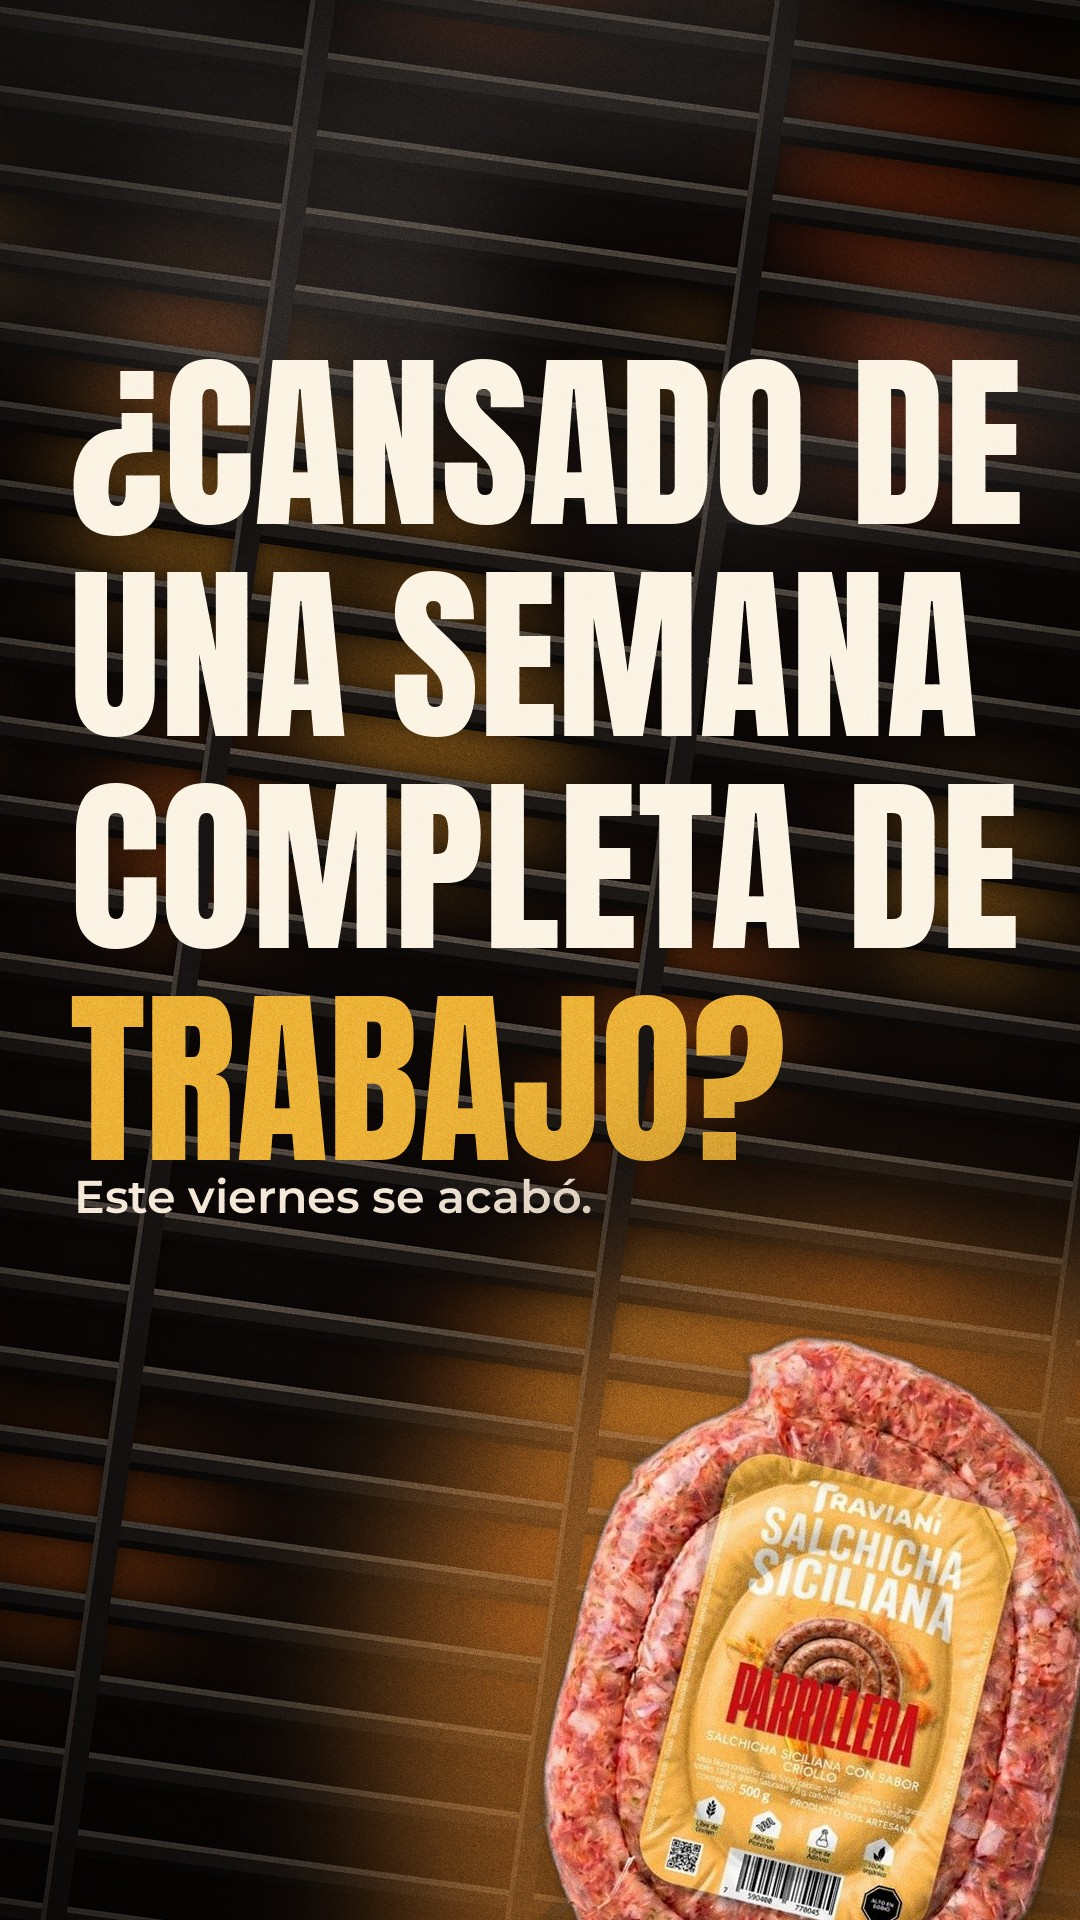
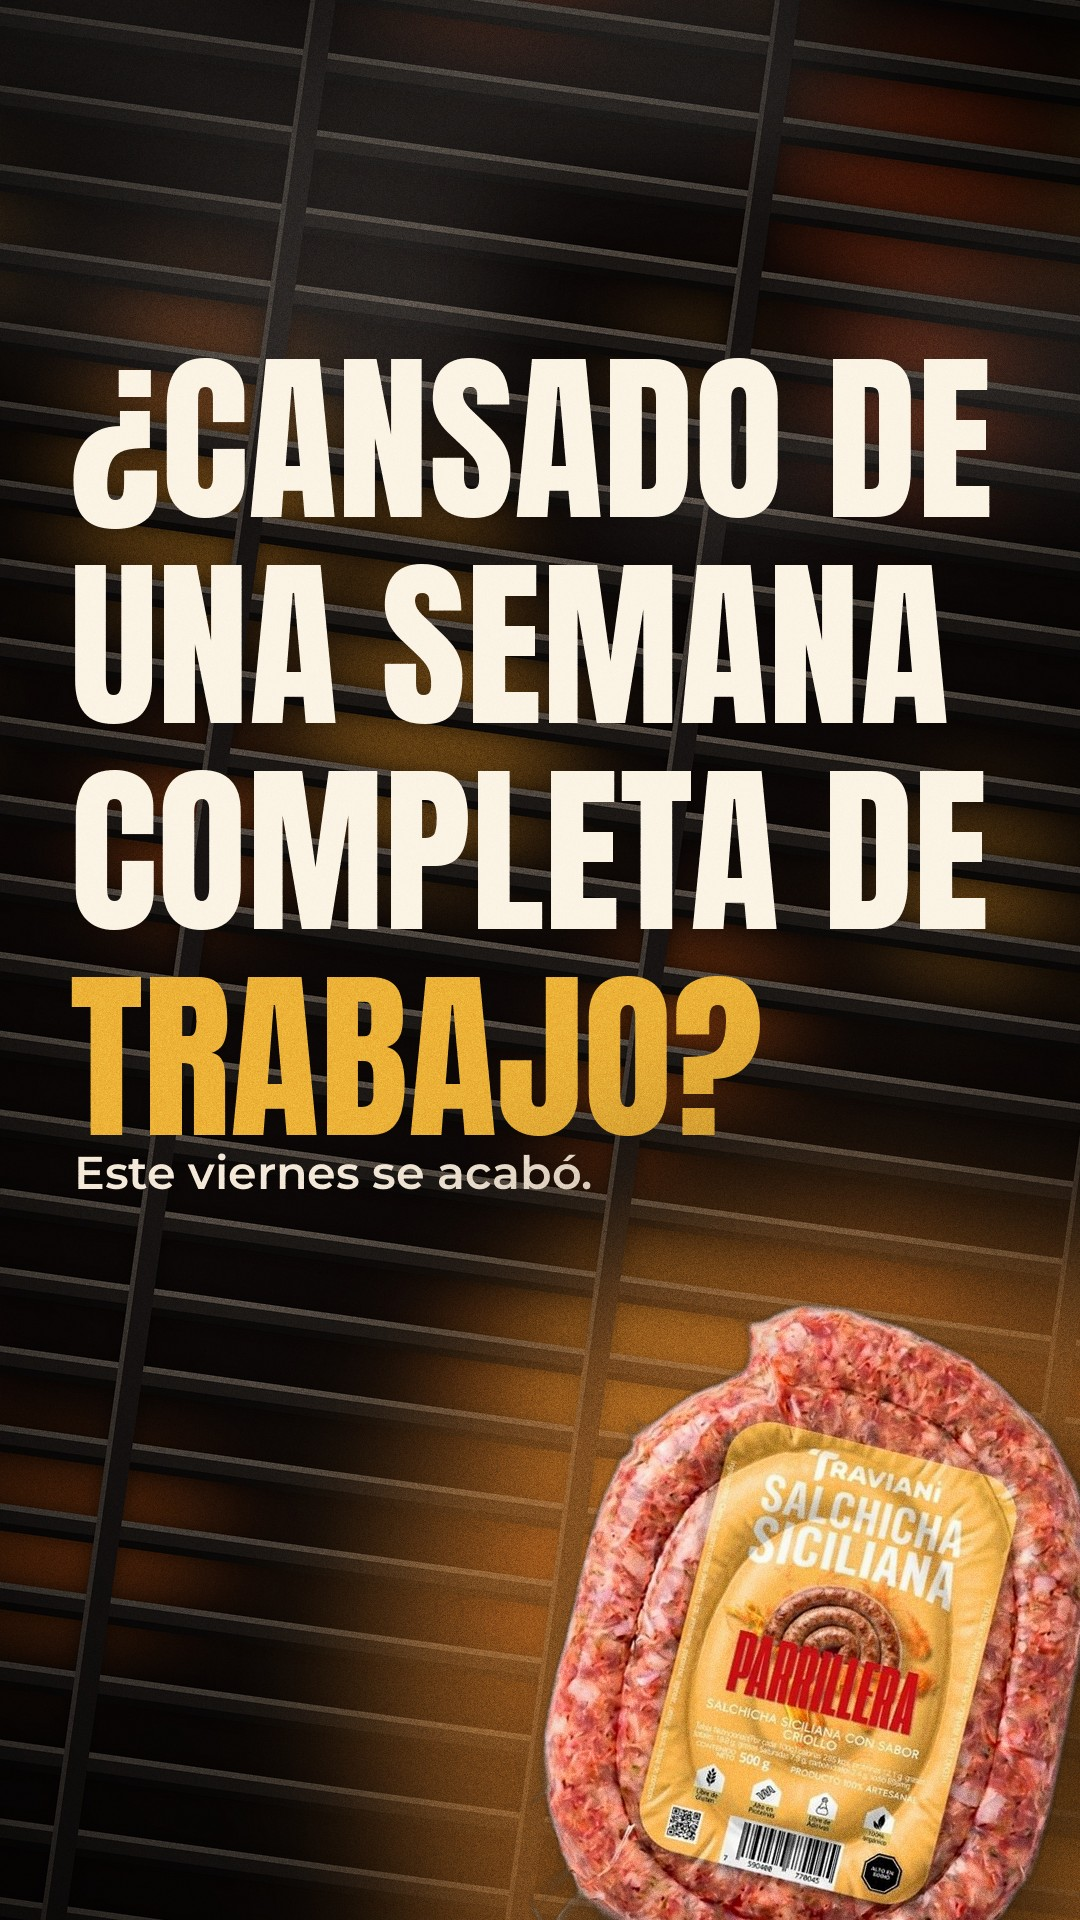
Día 4: domingo de familia con mesa de madera
Claude-Session: https://claude.ai/code/session_01BoapLYkqJjC4bybfaGWR3T

Changed region(s): [[0.0611, 0.1875, 0.9472, 0.6562], [0.4889, 0.6562, 1.0, 1.0]]

diff --git a/disenos.py b/disenos.py
@@ -113,11 +113,12 @@ def espiral_cutout(ancho_px, ang=-6):
 
 
 # ---------- láminas ----------
-def portada_parrilla(l1, l2, etiqueta, sello, total):
+def portada_parrilla(l1, l2, etiqueta, sello, total, fondo="parrilla"):
     """Portada: título gigante sobre parrilla con la espiral como protagonista."""
     T, h, o = g.tt(), H(), oy()
-    b = parrilla_bg(h, ang=-14 if not T else -12)
-    humo(b, h, 0, int(h * 0.3))
+    b = parrilla_bg(h, ang=-14 if not T else -12) if fondo == "parrilla" else mesa_bg(h, 4)
+    if fondo == "parrilla":
+        humo(b, h, 0, int(h * 0.3))
     d = ImageDraw.Draw(b)
     # resplandor bajo la salchicha
     cy_s = int(h * (0.615 if T else 0.71))
@@ -133,6 +134,8 @@ def portada_parrilla(l1, l2, etiqueta, sello, total):
     d = ImageDraw.Draw(b)
     pastilla(d, 0, o + (28 if T else 50), etiqueta, mont(30 if T else 27, "ExtraBold"), DORADO, OSCURO, centrado=True)
     tam = 330 if T else 225
+    while ancho(d, l1, anton(tam)) > W - 90:
+        tam -= 6
     centrar(d, o + (100 if T else 105), l1, anton(tam), CREMA)
     y2 = o + (100 if T else 105) + int(tam * 1.13)
     centrar(d, y2, l2, anton(int(tam * 0.56)), DORADO)
@@ -272,15 +275,18 @@ def lamina_cierre_parrilla(titulo, lineas, boton, total, fotos=(5, 1, 2), precio
     return terminar(b)
 
 
-def lamina_texto_parrilla(lineas, sub, n, total, empaque_n=5, seed=11):
+def lamina_texto_parrilla(lineas, sub, n, total, empaque_n=5, seed=11, fondo="parrilla"):
     """Frase grande sobre la parrilla. lineas = [(texto, color)], con un empaque asomando abajo."""
     T, h, o = g.tt(), H(), oy()
-    b = parrilla_bg(h, ang=-8, seed=seed, calor=0.6)
-    b.alpha_composite(Image.new("RGBA", (W, h), (10, 6, 5, 105)))
-    humo(b, h, 0, int(h * 0.3), seed=4)
+    b = parrilla_bg(h, ang=-8, seed=seed, calor=0.6) if fondo == "parrilla" else mesa_bg(h, seed)
+    b.alpha_composite(Image.new("RGBA", (W, h), (10, 6, 5, 105 if fondo == "parrilla" else 120)))
+    if fondo == "parrilla":
+        humo(b, h, 0, int(h * 0.3), seed=4)
     viñeta(b, h)
     d = ImageDraw.Draw(b)
     tam = 190 if T else 158
+    while max(ancho(d, t, anton(tam)) for t, _ in lineas) > W - 150:
+        tam -= 6
     y = o + (150 if T else 130)
     for txt, col in lineas:
         d.text((70, y), txt, font=anton(tam), fill=col); y += int(tam * 1.12)
@@ -290,14 +296,36 @@ def lamina_texto_parrilla(lineas, sub, n, total, empaque_n=5, seed=11):
         d.text((74, y), l, font=fs, fill=(244, 232, 216)); y += int(fs.size * 1.4)
     alto = 700 if T else 560
     p = empaque(empaque_n, alto, -14)
-    pegar_producto(b, p, (W - p.width + 80, 1290 if T else h - int(alto * 0.78)), brillo=(255, 150, 50))
+    pegar_producto(b, p, (W - p.width + 80, int(y + 50) if T else h - int(alto * 0.78)), brillo=(255, 150, 50))
     d = ImageDraw.Draw(b)
     if not T:
         pie(d, CREMA, n, total)
     return terminar(b)
 
 
+def mesa_bg(h, seed=4):
+    """Mesa de madera con tablones, veta vertical y luz cálida al centro."""
+    import numpy as np
+    rnd = np.random.RandomState(seed)
+    gran = np.array(Image.fromarray((rnd.rand(max(2, h // 30), W // 2) * 255).astype("uint8")).resize((W, h), Image.BICUBIC), dtype=float) / 255
+    fino = np.array(Image.fromarray((rnd.rand(h // 2, W // 3) * 255).astype("uint8")).resize((W, h), Image.BICUBIC), dtype=float) / 255
+    tex = 0.65 * gran + 0.35 * fino
+    oscuro, claro = np.array([62, 36, 20.]), np.array([158, 102, 58.])
+    img = oscuro + (claro - oscuro) * tex[..., None]
+    pw = W // 5 + 1
+    for i in range(5):
+        x0, x1 = i * pw, min(W, i * pw + pw)
+        img[:, x0:x1, :] += rnd.uniform(-22, 22)
+        img[:, x0:x0 + 5, :] *= 0.3
+    yy, xx = np.mgrid[0:h, 0:W]
+    d = np.sqrt(((xx - W / 2) / (W * 0.7)) ** 2 + ((yy - h * 0.5) / (h * 0.6)) ** 2)
+    img *= (1.18 - 0.62 * np.clip(d, 0, 1.2))[..., None]
+    return Image.fromarray(np.clip(img, 0, 255).astype("uint8"), "RGB").convert("RGBA")
+
+
 def _fondo(h, fondo, seed):
+    if fondo == "mesa":
+        return mesa_bg(h, seed)
     if fondo == "parrilla":
         return parrilla_bg(h, ang=10 if seed == 8 else -14, seed=seed, calor=0.55 if seed == 8 else 0.85)
     c, o = g.PALETAS["receta"]
@@ -404,6 +432,83 @@ def lamina_paso_props(titulo, cuerpo, num, n, total, props):
     y += 22
     for l in g._lineas(d, cuerpo, fc, 620):
         d.text((82, y), l, font=fc, fill=(255, 236, 212)); y += int(fc.size * 1.42)
+    if not T:
+        pie(d, CREMA, n, total)
+    return terminar(b)
+
+
+def _mesa_oscura(h, seed=4, alfa=125):
+    b = mesa_bg(h, seed)
+    b.alpha_composite(Image.new("RGBA", (W, h), (12, 7, 5, alfa)))
+    viñeta(b, h)
+    return b
+
+
+def lamina_bandas(titulo, filas, n, total, col=(196, 44, 26)):
+    """Tres bandas de color con una palabra grande y una línea de texto. filas = [(palabra, texto)]."""
+    T, h, o = g.tt(), H(), oy()
+    b = _mesa_oscura(h, 5)
+    d = ImageDraw.Draw(b)
+    ft = anton(118 if T else 100)
+    y = o + (40 if T else 70)
+    for l in titulo.split("\n"):
+        d.text((70, y), l, font=ft, fill=CREMA); y += int(ft.size * 1.1)
+    y += 26
+    alto = 310 if T else 250
+    estilos = [(col, CREMA, (255, 226, 200)), (DORADO, OSCURO, (70, 40, 14)), (CREMA, OSCURO, (90, 60, 40))]
+    for i, (pal, txt) in enumerate(filas):
+        fb, ct, cs = estilos[i % 3]
+        x0 = 50 + (40 if i % 2 else 0)
+        sh = capa(); ImageDraw.Draw(sh).rounded_rectangle((x0, y + 12, W - 50 - (0 if i % 2 else 40), y + alto + 12), 34, fill=(0, 0, 0, 120))
+        b.alpha_composite(sh.filter(ImageFilter.GaussianBlur(14)))
+        ImageDraw.Draw(b).rounded_rectangle((x0, y, W - 50 - (0 if i % 2 else 40), y + alto), 34, fill=fb)
+        d = ImageDraw.Draw(b)
+        fp = anton(112 if T else 96)
+        while ancho(d, pal, fp) > W - x0 - 160:
+            fp = anton(fp.size - 6)
+        d.text((x0 + 44, y + (48 if T else 34)), pal, font=fp, fill=ct)
+        fc = mont(42 if T else 36, "SemiBold")
+        yy = y + (48 if T else 34) + int(fp.size * 1.25)
+        for l in envolver(d, txt, fc, W - x0 - 180):
+            d.text((x0 + 46, yy), l, font=fc, fill=cs); yy += int(fc.size * 1.35)
+        y += alto + 26
+    if not T:
+        pie(d, CREMA, n, total)
+    return terminar(b)
+
+
+def lamina_cantidades(titulo, filas, n, total, sabores=(3, 2, 1, 5)):
+    """Guía visual: tarjetas con personas a la izquierda y los paquetes dibujados a la derecha. filas = [(personas, paquetes)]."""
+    T, h, o = g.tt(), H(), oy()
+    b = _mesa_oscura(h, 6)
+    d = ImageDraw.Draw(b)
+    ft = anton(108 if T else 92)
+    y = o + (30 if T else 60)
+    for l in titulo.split("\n"):
+        d.text((70, y), l, font=ft, fill=CREMA); y += int(ft.size * 1.1)
+    y += 22
+    alto = 330 if T else 272
+    for i, (pers, paq) in enumerate(filas):
+        cl = capa()
+        ImageDraw.Draw(cl).rounded_rectangle((50, y + 12, W - 50, y + alto + 12), 36, fill=(0, 0, 0, 120))
+        b.alpha_composite(cl.filter(ImageFilter.GaussianBlur(14)))
+        ImageDraw.Draw(b).rounded_rectangle((50, y, W - 50, y + alto), 36, fill=CREMA)
+        ImageDraw.Draw(b).rounded_rectangle((50, y, 330, y + alto), 36, fill=(196, 44, 26))
+        ImageDraw.Draw(b).rectangle((290, y, 330, y + alto), fill=(196, 44, 26))
+        d = ImageDraw.Draw(b)
+        centrar(d, y + alto * 0.12, str(pers), anton(170 if T else 140), CREMA, 50, 330)
+        centrar(d, y + alto * 0.12 + (190 if T else 158), "PERSONAS", mont(28, "ExtraBold"), (255, 226, 200), 50, 330)
+        ph = int(alto * 0.80)
+        ps = [empaque(sabores[k % len(sabores)], ph, (-6, 4, -3, 6)[k % 4]) for k in range(paq)]
+        paso = int(ps[0].width * 0.74)
+        x = 360
+        for p in ps:
+            pegar_producto(b, p, (x, int(y + (alto - ph) * 0.35)))
+            x += paso
+        d = ImageDraw.Draw(b)
+        et = f"{paq} PAQUETES"
+        pastilla(d, W - 70 - ancho(d, et, mont(28, "ExtraBold")) - 52, y + alto - 62, et, mont(28, "ExtraBold"), OSCURO, CREMA, pad=26)
+        y += alto + 24
     if not T:
         pie(d, CREMA, n, total)
     return terminar(b)

diff --git a/dia04.py b/dia04.py
@@ -1,0 +1,45 @@
+"""Día 4: El domingo no es domingo sin parrilla. python3 dia04.py"""
+import os
+from PIL import Image
+import generador as g
+import disenos as D
+from contenido import WA
+
+CRE, DOR = g.CREMA, g.DORADO
+
+
+def laminas():
+    total = 5
+    return [
+        lambda: D.portada_parrilla("DOMINGO", "DE FAMILIA", "EL MEJOR PLAN", ["DESDE", "$10", "1/2 KG"], total, fondo="mesa"),
+        lambda: D.lamina_texto_parrilla([("EL DOMINGO", CRE), ("NO ES DOMINGO", CRE), ("SIN ESTO.", DOR)],
+                                        "La parrilla prendida y todos en la mesa.", 2, total, empaque_n=2, fondo="mesa"),
+        lambda: D.lamina_bandas("EL DOMINGO\nPERFECTO LLEVA", [("LA FAMILIA", "Todos en la mesa, sin apuro."),
+                                                              ("LA PARRILLA", "Prendida desde temprano."),
+                                                              ("EL PAN", "Calientito, para armar el sándwich.")], 3, total),
+        lambda: D.lamina_cantidades("¿CUÁNTOS\nPAQUETES PIDO?", [(4, 2), (6, 3), (8, 4)], 4, total),
+        lambda: D.lamina_cierre_parrilla("DELIVERY\nGRATIS", ["Desde 4 paquetes", "Despachos solo en Caracas", WA],
+                                         "PIDE PARA ESTE DOMINGO", total, fotos=(5, 3, 2), fondo="mesa"),
+    ]
+
+
+def render(salida="dia04_v2"):
+    for fmt, carpeta in (("ig", salida), ("tt", salida + "_tt")):
+        g.usar_formato(fmt)
+        os.makedirs(carpeta, exist_ok=True)
+        ims = []
+        for i, f in enumerate(laminas(), 1):
+            im = f()
+            im.save(f"{carpeta}/{i:02d}.jpg", quality=90)
+            ims.append(im)
+        w = 360 if fmt == "ig" else 300
+        th = [im.resize((w, int(im.height * w / im.width))) for im in ims]
+        S = Image.new("RGB", (len(th) * (w + 8), th[0].height), (20, 20, 20))
+        for k, t in enumerate(th):
+            S.paste(t, (k * (w + 8), 0))
+        S.save(f"/tmp/dia04_{fmt}.jpg", quality=85)
+        print(fmt, len(ims))
+
+
+if __name__ == "__main__":
+    render()
